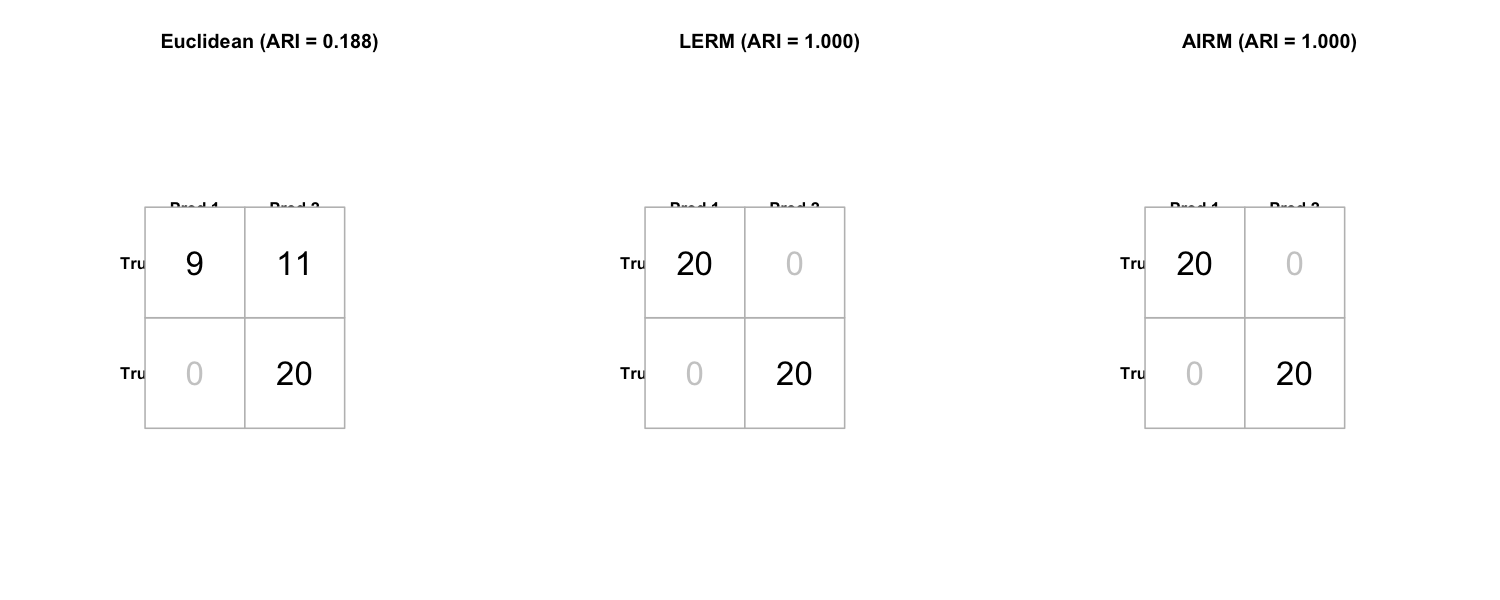
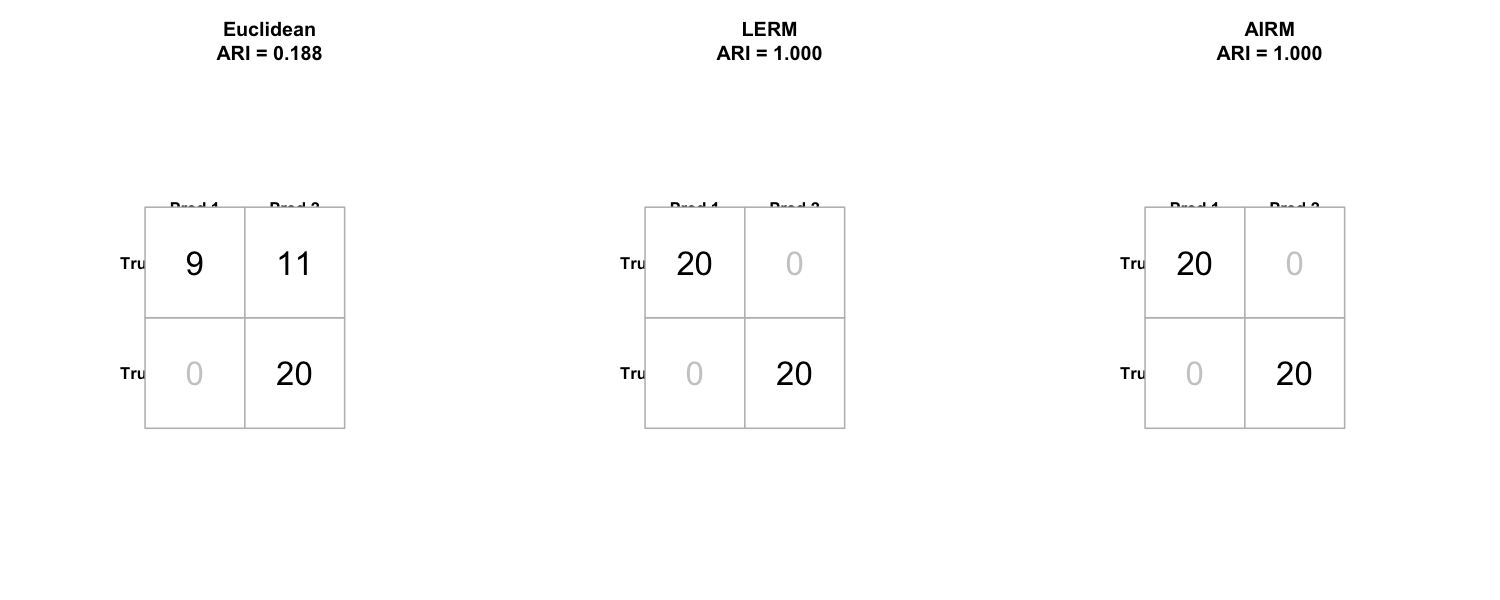
Update Model B description and captions to bivariate VAR(2)

Changed region(s): [[0.092, 0.03, 0.276, 0.12], [0.7667, 0.03, 0.92, 0.12], [0.46, 0.03, 0.5827, 0.12]]

diff --git a/README.md b/README.md
@@ -12,7 +12,7 @@ Multivariate EEG signals are modeled as stochastic processes. When evaluating fu
 3. **Experiment 3 (High Dimensionality)**: Scaling behavior as channel count ($d$) increases.
 4. **Experiment 4 (Cohort Size)**: Impact of total subject count ($N$).
 5. **Model A (Stochastic Brain State)**: Pure AR(2) process simulation (alpha vs. beta rhythm).
-6. **Model B (Spatiotemporally Correlated Noise)**: Harmonic signal in VAR(1) correlated noise.
+6. **Model B (Spatiotemporally Correlated Noise)**: Harmonic signal in bivariate VAR(2) correlated noise.
 
 ---
 